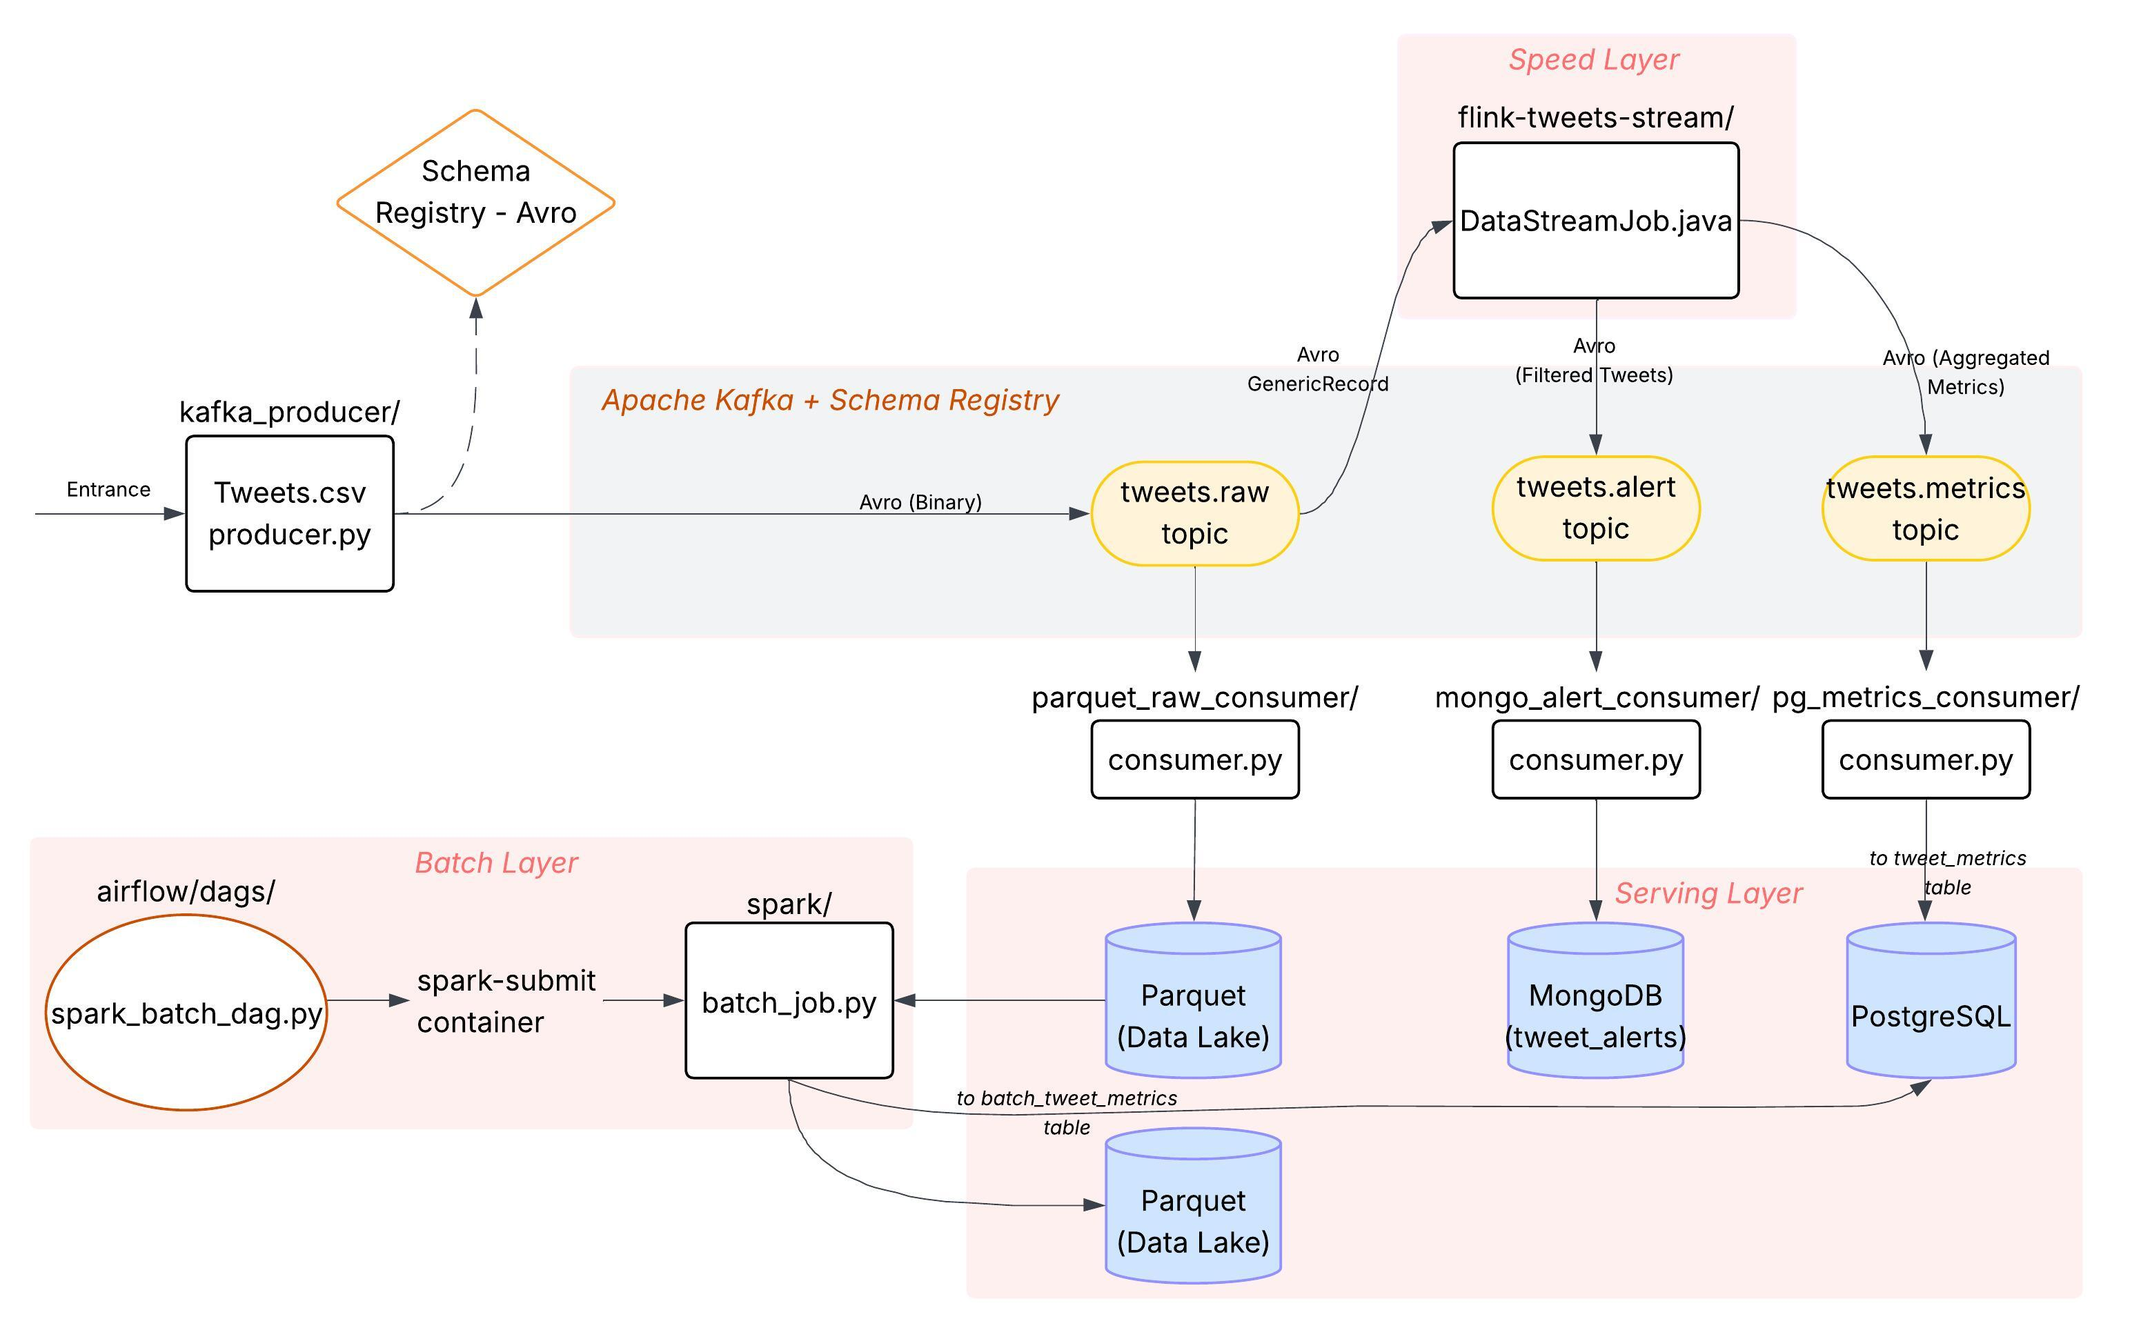
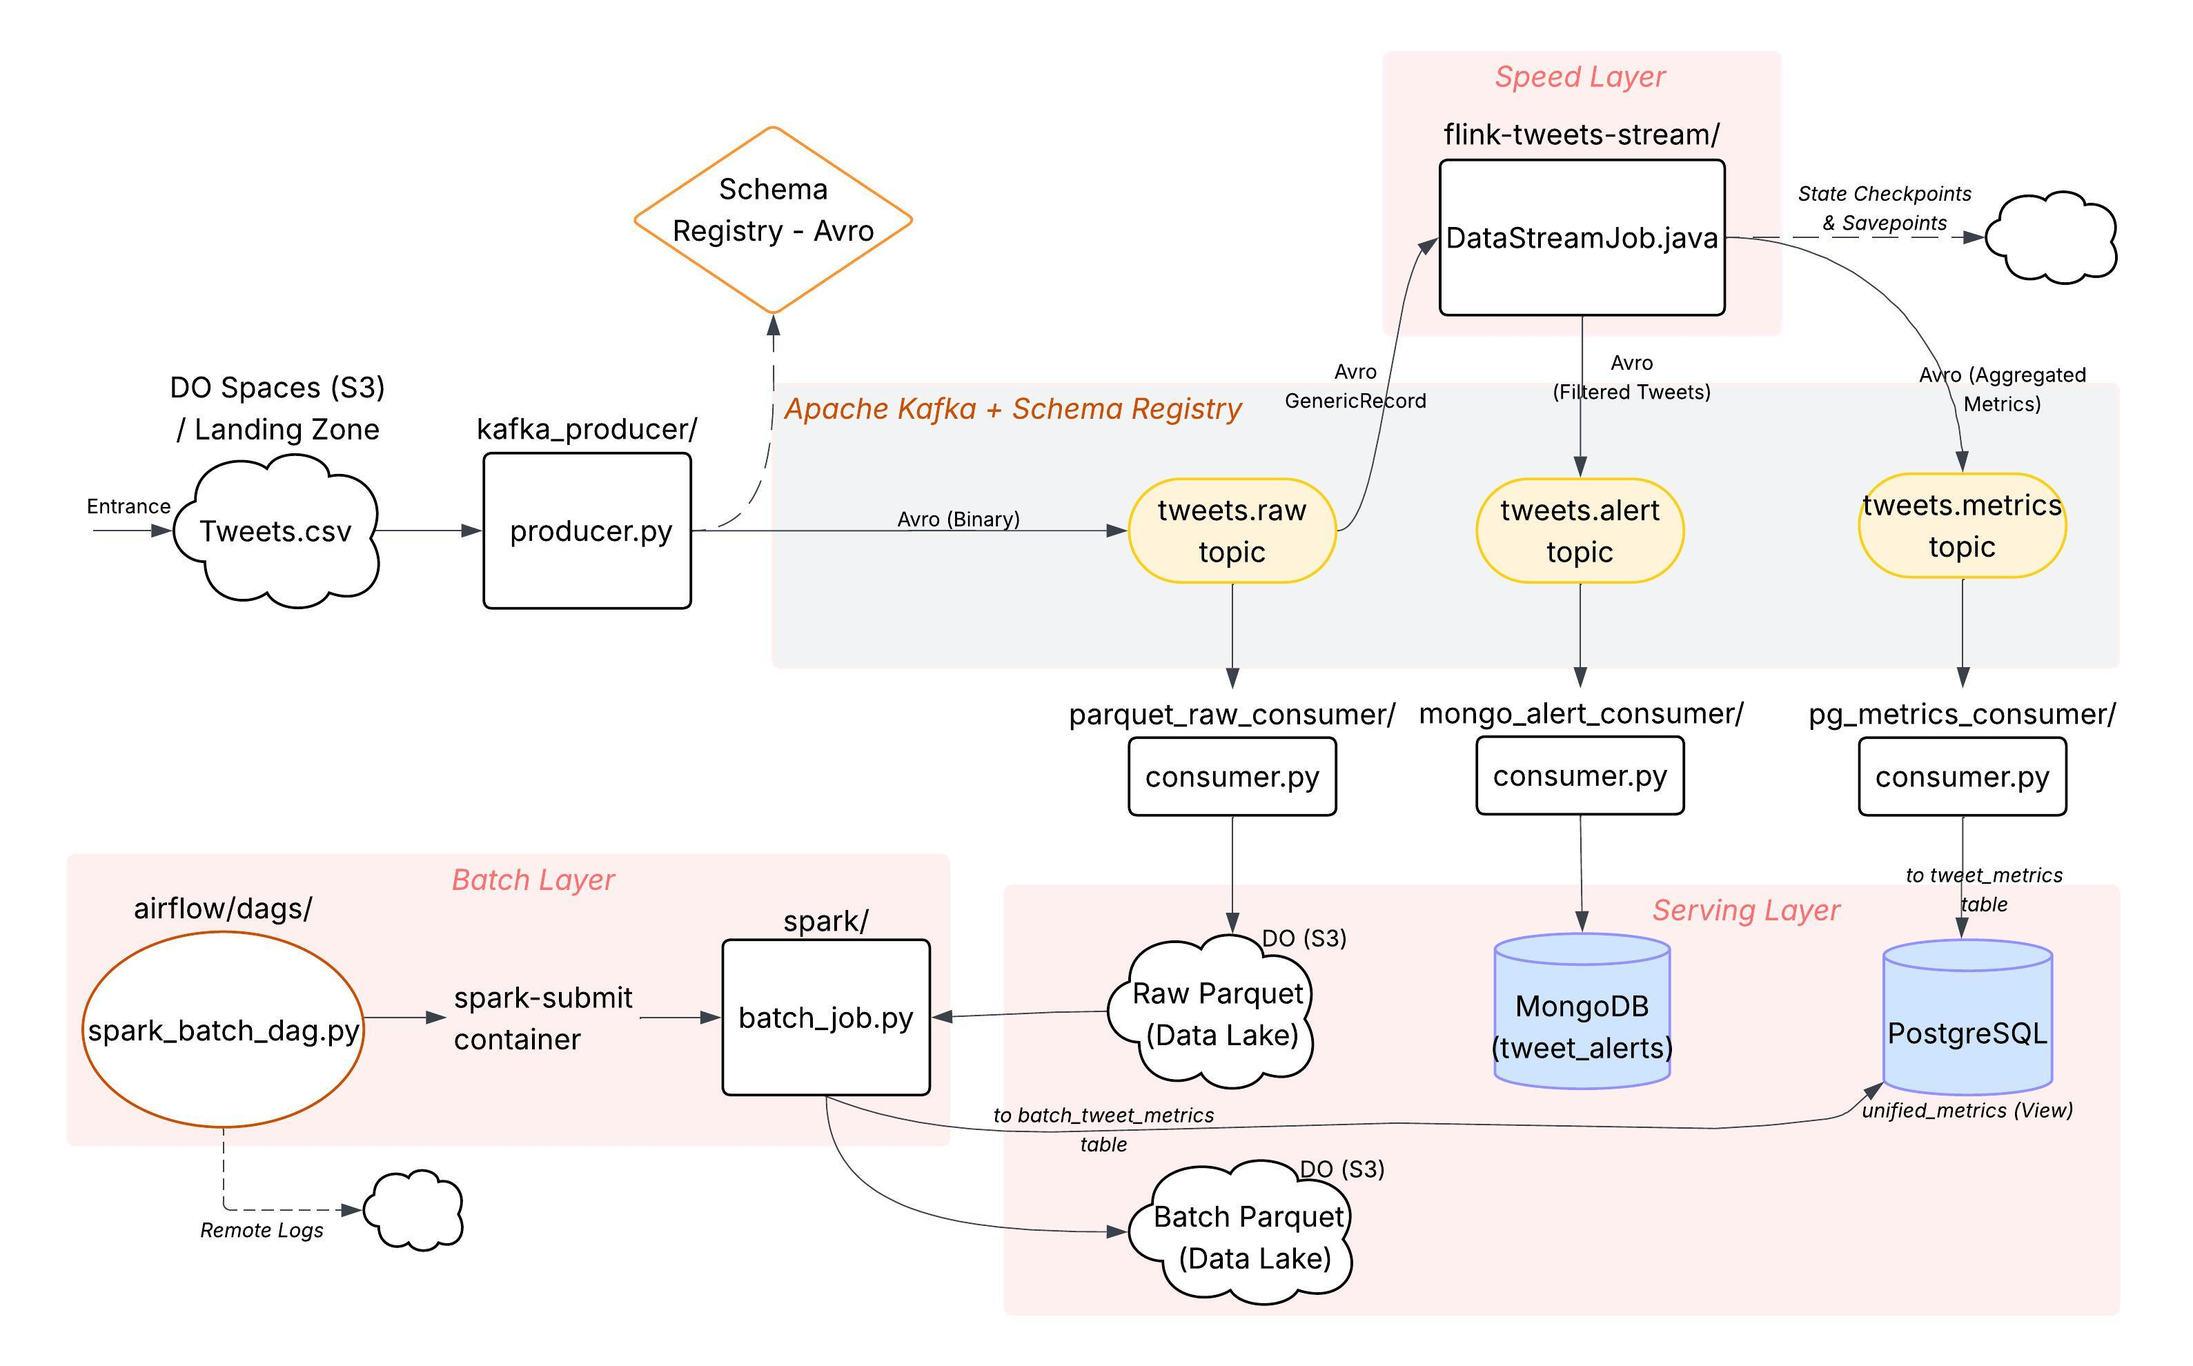
feat: complete cloud-native migration with S3 landing zone, remote logging, and flink checkpoints

diff --git a/kafka_producer/producer.py b/kafka_producer/producer.py
@@ -1,6 +1,8 @@
 import csv
 import time
 import random
+import os
+import s3fs # type: ignore
 from confluent_kafka import SerializingProducer # type: ignore
 from confluent_kafka.schema_registry import SchemaRegistryClient # type: ignore
 from confluent_kafka.schema_registry.avro import AvroSerializer # type: ignore
@@ -39,14 +41,23 @@ def delivery_report(err, msg):
     if err is not None:
         print(f"Message delivery failed: {err}")
 
-# CSV dosyasını okur, tarih sırasına dizer ve her satırı AVRO formatında Kafka'ya gönderir.
+# CSV dosyasını DO Spaces (S3) Landing Zone'dan okur, tarih sırasına dizer ve her satırı AVRO formatında Kafka'ya gönderir.
 # Tarih sırasına dizme nedenimiz: Flink'in event time özelliği ile verileri doğru zaman sırasına göre işlemesini sağlamak. (bu nedenle önce all_data ile liste yapıyoruz)
 # Aksi takdirde, veriler rastgele bir sırayla gelebilir ve Flink'in windowing işlemleri yanlış sonuçlar üretebilir.
+# S3 bağlantı ayarları
+s3 = s3fs.S3FileSystem(
+    key=os.environ.get("AWS_ACCESS_KEY_ID"),
+    secret=os.environ.get("AWS_SECRET_ACCESS_KEY"),
+    client_kwargs={'endpoint_url': os.environ.get("S3_ENDPOINT_URL")}
+)
+bucket_name = os.environ.get("S3_BUCKET_NAME", "twitter-hpa-datalake")
+s3_file_path = f"s3://{bucket_name}/landing-zone/Tweets.csv"
+
 count = 0
 all_data = []
 
-print("Reading CSV file...")
-with open("Tweets.csv", encoding="utf-8", errors="replace") as f:
+print(f"Reading CSV file from S3: {s3_file_path}...")
+with s3.open(s3_file_path, 'r', encoding="utf-8", errors="replace") as f:
     reader = csv.DictReader(f)
     for row in reader:
         all_data.append(row)

diff --git a/README.md b/README.md
@@ -1,15 +1,14 @@
-## Twitter HPA (High Performance Analysis) - Lambda Architecture + Cloud Deployment Plan
+## Twitter HPA (High Performance Analysis) - Lambda Architecture + Cloud Deployment
 
 Bu proje, Twitter verilerini gerçek zamanlı ve toplu olarak işlemek amacıyla **Lambda Mimari** prensipleri doğrultusunda geliştirilmiştir.
 
 ### Proje Durumu
-| ⚡ **Speed Layer** Tamamlandı
-| 🗄 **Serving Layer** Tamamlandı
-| 📦 **Batch Layer** Tamamlandı 
-| ☁ **Cloud Deployment** Planlanıyor
+| ⚡ **Speed Layer** 
+| 🗄 **Serving Layer** 
+| 📦 **Batch Layer**
+| ☁ **Cloud Deployment** 
 
-> **Not:** Bu projede temel hedef, elimdeki veri setine göre optimizasyon yapmak değil; gerçek dünya standartlarında bir sistem mimarisi kurmayı öğrenmektir. Bu nedenle şu anda projemde fazla tahsis edilmiş (over-provisioned) kaynaklar bulunmaktadır (Partition sayıları, Flink parallelism ayarı gibi). Lambda architecture tamamlandığında bir bulut ortamına (büyük ihtimalle DigitalOcean) taşıma planlanmaktadır.
-> **Not:** İnterpreterden kaynaklı hata olarak gösterilen, ama aslında kodun çalışmasında hiçbir şekilde sıkıntı oluşturmayan hatalar `# type: ignore` yorum satırı ile gizlenmiştir. Proje içinde `# type: ignore` yorum satırları bu nedenle vardır.
+> **Not:** Bu projede temel hedef, elimdeki veri setine göre optimizasyon yapmak değil; gerçek dünya standartlarında bir sistem mimarisi kurmayı öğrenmektir. Bu nedenle şu anda projemde fazla tahsis edilmiş (over-provisioned) kaynaklar bulunmaktadır (Partition sayıları, Flink parallelism ayarı gibi). 
 ---
 
 ### Teknoloji Yığını
@@ -24,6 +23,7 @@ Bu proje, Twitter verilerini gerçek zamanlı ve toplu olarak işlemek amacıyla
 | Veri Depolama (NoSQL) | MongoDB 7.0 |
 | Veri Depolama (RDBMS) | PostgreSQL 15 |
 | Veri Depolama (Data Lake) | Apache Parquet (Snappy ile sıkıştırma) |
+| Bulut Depolama (Cloud Storage) | DigitalOcean Spaces (S3 Uyumlu) |
 | Konteynerleştirme | Docker & Docker Compose |
 
 ---
@@ -31,8 +31,8 @@ Bu proje, Twitter verilerini gerçek zamanlı ve toplu olarak işlemek amacıyla
 ### Mimari Akış
 ![Architecture - Data Flow Diagram](Architecture%20-%20Data%20Flow%20Diagram.jpeg)
 
-#### 1. Veri Üretimi ve Entegrasyon (Ingestion)
-- **Producer:** Python tabanlı `kafka-producer`, ham tweet verilerini (`Tweets.csv`) okur.
+#### 1. Veri Üretimi ve Entegrasyon (Ingestion) - S3 Landing Zone
+- **Producer:** Python tabanlı `kafka-producer`, ham tweet verilerini lokal disk yerine doğrudan buluttan (**DO Spaces - s3://.../landing-zone/Tweets.csv**) `s3fs` kullanarak okur.
 - **Serialization:** Veriler, Confluent Schema Registry üzerindeki **Avro** şemasına göre serialize edilerek binary formatta iletilir. (Verinin ağ üzerinde en az yer kaplamasını sağlamak için)
 - **Kafka Topic:** Hazırlanan mesajlar `tweets.raw` topic'ine asenkron olarak gönderilir.
 
@@ -40,25 +40,25 @@ Bu proje, Twitter verilerini gerçek zamanlı ve toplu olarak işlemek amacıyla
 - Tüm bileşenler (Producer, Flink, Consumer) merkezi **Schema Registry**'yi kullanır. Bu yaklaşım veri tutarlılığını sağlar ve şema evrimini (schema evolution) kolaylaştırır.
 
 #### 3. Hız Katmanı — Anlık İşleme (Speed Layer)
-- **Flink Job:** `tweets.raw` topic'ini kesintisiz dinler.
+- **Flink Job:** `tweets.raw` topic'ini kesintisiz dinler. Flink'in durum (state) verileri ve yedeği **(Checkpoints)** veri kaybını sıfıra indirmek için doğrudan **DO Spaces (S3)** üzerine yazılır.
 - **Event Time & Watermarks:** Tweetlerin orijinal zaman damgaları (`tweet_created`) kullanılır; geç gelen veriler için 5 saniyelik Watermark toleransı uygulanır.
 - **Pencereleme (Windowing):** Veriler havayolu bazlı gruplanır (`keyBy`) ve 1 dakikalık `TumblingEventTimeWindows` pencerelerinde toplanır.
 - **Çıktılar:**
   - "Negative" duygu etiketli tweetler → `tweets.alert` topic'i
   - Dakikalık istatistikler (tweet sayısı, ortalama retweet vb.) → `tweets.metrics` topic'i
  
-#### 4. Toplu İşleme Katmanı (Batch Layer)
-- **Parquet Raw Consumer:** Kafka'daki `tweets.raw` topic'ini dinler ve ham tweetleri **Parquet** formatında Data Lake'e yazar. Bu yapı Lambda Mimarisi'ndeki "Immutable Master Dataset" (Değiştirilemez Ana Veri Seti) konseptini sağlar.
-- **PySpark Job:** `spark/batch_job.py`, Data Lake'teki (Parquet formatındaki) ham tweet verilerini periyodik olarak okur ve 1 saatlik pencereler bazında toplu analizler üretir.
-- **Airflow DAG:** `airflow/dags/` altındaki DAG, PySpark işini zamanlanmış (scheduled) biçimde tetikler ve orkestre eder.
+#### 4. Toplu İşleme Katmanı (Batch Layer) & Cloud Data Lake
+- **Parquet Raw Consumer:** Kafka'daki `tweets.raw` topic'ini dinler ve ham tweetleri **Parquet** formatında doğrudan **DO Spaces (S3)** Data Lake'ine yazar. (Konteyner diski kullanılmaz, mimari tamamen stateless'tır).
+- **PySpark Job:** `spark/batch_job.py`, S3 üzerindeki (Parquet formatındaki) ham tweet verilerini periyodik olarak okur ve 1 saatlik pencereler bazında toplu analizler üretir.
+- **Airflow DAG:** `airflow/dags/` altındaki DAG, PySpark işini zamanlanmış (scheduled) biçimde tetikler. Airflow görev logları sunucu diski dolmasın diye **DO Spaces'e (S3 Remote Logging)** yazılır.
 
 #### 5. Sunum Katmanı — Depolama ve Tüketim (Serving Layer)
 - **Consumers:** Python consumer'ları Kafka'dan gelen sonuçları kalıcı depolara yazar:
   - **MongoDB:** Kritik uyarılar (`tweet_alerts`) saklanır.
   - **PostgreSQL:** Analitik metrikler hem hız katmanından (`tweet_metrics`) hem de toplu işleme katmanından (`batch_tweet_metrics`) gelen verilerle burada saklanır.
-- **Unified View:** PostgreSQL'deki `unified_metrics` view'ı, batch ve real-time verileri otomatik olarak birleştirir. Batch verisi mevcutsa onu, henüz işlenmemiş son veriler için ise real-time veriyi sunar.
+- **Unified View:** PostgreSQL'deki `unified_metrics` view'ı, batch ve real-time verileri otomatik olarak birleştirir.
 - **Lambda Loop (Pruning):** Batch job başarıyla tamamlandığında, `tweet_metrics` tablosundaki eski (redundant) verileri temizleyerek "re-computation" döngüsünü tamamlar.
-- **Spark Output:** PySpark job sonuçları hem PostgreSQL'e yazar hem de uzun süreli saklama için **Parquet** formatında dosya sistemine (Data Lake) arşivler.
+- **Spark Output:** PySpark job sonuçları hem PostgreSQL'e yazar hem de uzun süreli saklama için **Parquet** formatında bulut veri gölüne (DO Spaces) arşivler.
 
 #### 6. Otomasyon (Infrastructure as Code)
 - **Docker Compose:** Tüm ekosistem tek komutla ayağa kalkar.
@@ -73,16 +73,22 @@ Bu proje, Twitter verilerini gerçek zamanlı ve toplu olarak işlemek amacıyla
 - Herhangi bir terminal (PowerShell, Bash vb.)
 
 #### 1. Ortam Değişkenlerini (Env) Ayarlama
-Proje dizinindeki şifreleri ayarlamak için ilk olarak `twitter-hpa` klasörü altında bulunan `.env.example` dosyasının adını `.env` olarak değiştirin. 
+Proje dizinindeki şifreleri ayarlamak için ilk olarak `twitter-hpa` klasörü altında bulunan `.env.example` dosyasının adını `.env` olarak değiştirin. İçerisine DigitalOcean Spaces (S3) `AWS_ACCESS_KEY_ID` ve `AWS_SECRET_ACCESS_KEY` değerlerinizi girin.
 
-#### 2. Sistemi Başlatma
+#### 2. S3 Landing Zone Hazırlığı
+Sistem "stateless" (durumsuz) çalıştığı için, ham veriyi (Tweets.csv) konteyner içinde tutmaz. 
+- DO Spaces panelinizde `twitter-hpa-datalake` (veya .env'de belirlediğiniz) bucket'ı oluşturun.
+- Bucket içinde `landing-zone` adında bir klasör açın.
+- Elinizdeki `Tweets.csv` dosyasını bu klasörün içine yükleyin.
+
+#### 3. Sistemi Başlatma
 Proje dizininde şu komutu çalıştırarak tüm sistemi (build dahil) ayağa kaldırabilirsiniz:
 ```powershell
 docker compose up --build -d
 ```
 
 #### Sistemi Durdurma ve Sıfırlama
-Tüm konteynerleri durdurmak ve verileri tamamen temizlemek için:
+Tüm konteynerleri durdurmak ve veritabanlarını temizlemek için:
 ```powershell
 docker compose down -v
 ```
@@ -100,7 +106,7 @@ docker compose down -v
 
 #### PostgreSQL (Analitik Metrikler)
 - **Adres:** `localhost:5432`
-- **Kullanıcı / Şifre:** `admin` / `admin`
+- **Kullanıcı / Şifre:** `.env` dosyasındaki bilgiler
 - **Veritabanı:** `twitter_metrics`
 - **Tablo:** `tweet_metrics` (Speed Layer)
 - **Tablo:** `batch_tweet_metrics` (Batch Layer)
@@ -111,7 +117,7 @@ docker compose down -v
 
 #### Airflow UI
 - **Adres:** [http://localhost:8081](http://localhost:8081)
-- **Kullanıcı / Şifre:** `admin` / `admin`
+- **Kullanıcı / Şifre:** `.env` dosyasındaki bilgiler (örn: `admin` / `admin`)
 
 #### Schema Registry (Avro Şemaları)
 - **Adres:** [http://localhost:8083](http://localhost:8083)
@@ -120,11 +126,13 @@ docker compose down -v
 #### Spark Master UI
 - **Adres:** [http://localhost:8084](http://localhost:8084)
 
-#### Data Lake (Parquet)
-- **Ham Veri (Girdi):** `/opt/spark-data/raw_tweets` (Konteyner içi) / `./data/raw_tweets` (Host cihaz)
-- **Batch Çıktı (Arşiv):** `/opt/spark-data/batch_output` (Konteyner içi) / `./data/batch_output` (Host cihaz)
-- **Format:** Snappy Sıkıştırılmış Parquet
-- **Partition Yapısı (Çıktı):** `airline` bazlı klasörleme (Partitioning)
+#### Cloud Data Lake (DigitalOcean Spaces / S3)
+- **Girdi (Landing Zone):** `s3://twitter-hpa-datalake/landing-zone/Tweets.csv`
+- **Ham Veri (Raw Parquet):** `s3://twitter-hpa-datalake/raw_tweets/`
+- **Batch Çıktı (Arşiv):** `s3://twitter-hpa-datalake/batch_output/`
+- **Flink Checkpoints:** `s3://twitter-hpa-datalake/flink-checkpoints/`
+- **Airflow Logs:** `s3://twitter-hpa-datalake/airflow-logs/`
+- **Format:** Snappy Sıkıştırılmış Parquet (Veri Gölleri için)
 
 ---
 

diff --git a/Project roadmap.md b/Project roadmap.md
@@ -186,10 +186,13 @@ Data lake duplice kontrolü kaldırıldı.
 - `Tweet.java` POJO başlangıçta kullanılıyordu; işlem karmaşıklığı artınca `GenericRecord` kullanımına geçildi ve `Tweet.java` silindi.
 - Spark başlangıçta MongoDB'den okuyacak şekilde planlandı; Parquet Data Lake'e geçilmesiyle Spark'ın kaynağı değiştirildi.
 - Tüm hassas bilgiler (şifreler vs.) `.env` dosyasına taşındı, `.env.example` hazırlandı, `.gitignore` güncellendi.
+- İnterpreterden kaynaklı hata olarak gösterilen, ama aslında kodun çalışmasında hiçbir şekilde sıkıntı oluşturmayan hatalar `# type: ignore` yorum satırı ile gizlenmiştir. Proje içinde `# type: ignore` yorum satırları bu nedenle vardır.
 
 ---
 
 ### 10. Cloud Migration — DigitalOcean Spaces (S3) Integration
+
+> commit: feat: Migrate Data Lake to DigitalOcean Spaces (S3) and make architecture stateless
 Lokal dosya sistemine dayalı Data Lake yapısı, ölçeklenebilir ve bulut uyumlu (cloud-native) **DigitalOcean Spaces (S3 API)** altyapısına taşındı (Henüz droplet yok, sadece spaces):
 
 #### Data Lake — S3 Geçişi
@@ -209,6 +212,33 @@ Lokal dosya sistemine dayalı Data Lake yapısı, ölçeklenebilir ve bulut uyum
 
 #### Altyapı Temizliği
 - `docker-compose.yml` içerisindeki Data Lake ve Batch Output klasörlerine ait yerel `volumes` tanımları kaldırılarak sunucu "stateless" (durumsuz) hale getirildi.
+
+> commit:  
+
+#### Flink Checkpoint → S3 Taşıması
+- **Sorun:** Flink checkpoint verileri konteyner içinde kalıyordu. Konteyner çöktüğünde veya yeniden başlatıldığında Flink'in durumu (state) sıfırlanıyor ve Kafka'dan tüm verileri baştan işlemek zorunda kalıyordu.
+- **Çözüm:** Flink'in resmi S3 plugin'i (`flink-s3-fs-hadoop`) Dockerfile'da plugin dizinine kopyalandı. `docker-compose.yml`'de hem JobManager hem TaskManager için S3 checkpoint/savepoint konfigürasyonu eklendi:
+  - `state.checkpoints.dir: s3://twitter-hpa-datalake/flink-checkpoints/`
+  - `state.savepoints.dir: s3://twitter-hpa-datalake/flink-savepoints/`
+  - DO Spaces endpoint ve credential'ları `env_file` + ortam değişkenleri ile aktarıldı.
+- **Sonuç:** Flink artık her 5 saniyede bir checkpoint'ini buluta yazar. Job çökse bile tam kaldığı Kafka offset'inden devam eder (exactly-once semantics).
+
+#### Airflow Remote Logging → S3 Taşıması
+- **Sorun:** Airflow task logları konteyner içinde kalıyordu. Konteyner yeniden başlatıldığında geçmiş DAG çalıştırmalarının logları kayboluyordu. Ayrıca Droplet'e taşındığında disk dolma riski oluşturuyordu çünkü çok fazla log üretiliyor.
+- **Çözüm:**
+  - Özel `airflow/Dockerfile` oluşturuldu: Resmi Airflow imajına `apache-airflow-providers-amazon` paketi eklendi.
+  - `docker-compose.yml`'de Airflow servisi `image` yerine `build: ./airflow` olarak güncellendi.
+  - S3 Remote Logging konfigürasyonu ortam değişkenleri ile yapılandırıldı. 
+- **Sonuç:** Tüm DAG çalıştırma logları (Spark batch, Data Quality) artık bulutta saklanıyor. Airflow Web UI'dan geçmiş loglar S3 üzerinden okunabiliyor.
+
+#### S3 Landing Zone (Raw Data Ingestion) Geçişi
+- **Sorun:** `kafka_producer` ham CSV dosyasını (`Tweets.csv`) lokal dizinden okuyordu. Bu durum, Droplet'e geçişte sunucunun "stateful" olmasına (dosyayı barındırmasına) ve ölçeklenebilirliğin kısıtlanmasına neden oluyordu.
+- **Çözüm:**
+  - DO Spaces'te `landing-zone/` dizini oluşturuldu.
+  - `kafka_producer/requirements.txt` dosyasına `s3fs` kütüphanesi eklendi.
+  - `kafka_producer/producer.py` güncellenerek lokal `with open()` yerine `s3fs` kullanılarak doğrudan S3 üzerinden okuma yapacak şekilde refactor edildi.
+  - `docker-compose.yml` içerisindeki `kafka-producer` servisine `.env` bağlantısı eklendi.
+- **Sonuç:** Droplet tamamen "Stateless" bir "Compute" birimine dönüştü. Veri sisteme dışarıdan S3 aracılığıyla giriyor ve işleniyor.
 
 ---
 
